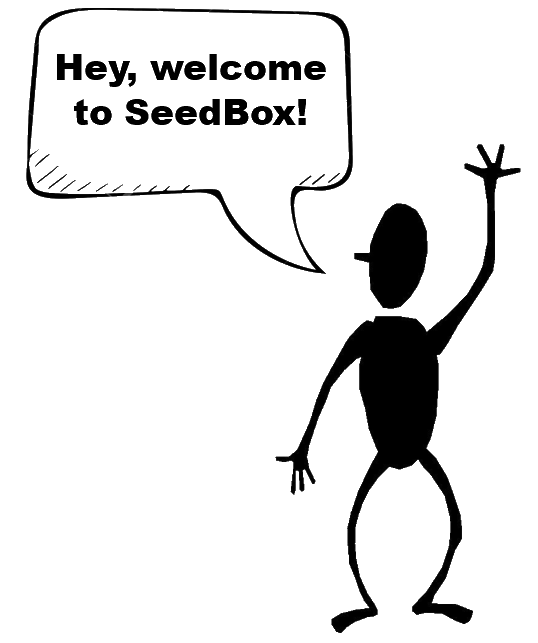
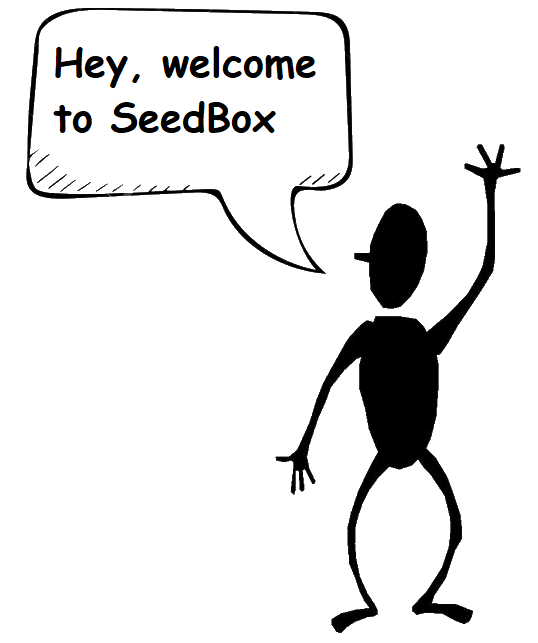
css

Changed region(s): [[0.0892, 0.0622, 0.6245, 0.2177]]

diff --git a/client/src/components/pages/homePage/HomePage.js b/client/src/components/pages/homePage/HomePage.js
@@ -22,6 +22,13 @@ font-family: 'Montserrat', sans-serif;
 }
 `
 
+const H3 = styled.h3`
+
+@media (max-width: 500px) {
+  font-size:7vw;
+}
+`
+
 
 const Div1 = styled.div`
 float:left; /* add this */
@@ -32,9 +39,7 @@ margin-top:10px;
   margin-top:10px;
   margin-left: 10px;
   width:100%
-  font-family:"Arial Rounded MT Bold", Arial, Helvetica, sans-serif;
-
-
+  font-family:"Comic Sans MS", Comic Sans, cursive;
 }
 `
 const Div2 = styled.div`
@@ -47,7 +52,7 @@ margin-top:10px;
   width:100%
   padding-top: 25px;
   padding-right: 20px;
-  font-family:"Arial Rounded MT Bold", Arial, Helvetica, sans-serif;
+  font-family:"Comic Sans MS", Comic Sans, cursive;
 
 }
 `
@@ -138,12 +143,12 @@ class HomePage extends Component {
 
           <Div1  >
           <DivImage1 id="logo"  />
-            <h3 >What is the SeedBox?</h3>
+            <H3 >What is the SeedBox?</H3>
             <p>Read <Link to="/about">about</Link> it here! </p>
           </Div1>
           <Div2 >
           <DivImage2 id="logo"/>
-            <h3><Link to="/create">Get started</Link> with the SeedBox</h3>
+            <H3><Link to="/create">Get started</Link> with the SeedBox</H3>
           </Div2>
           <Div3>
           <DivImage3  onClick={() => alert('Thanks! Come back later, when we have implemented this ;)')} id="logo"/>
